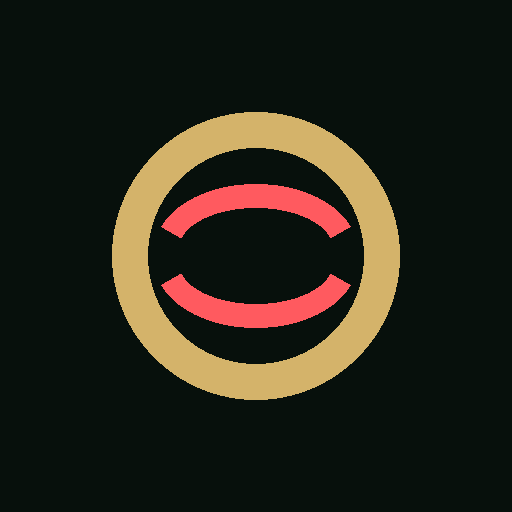
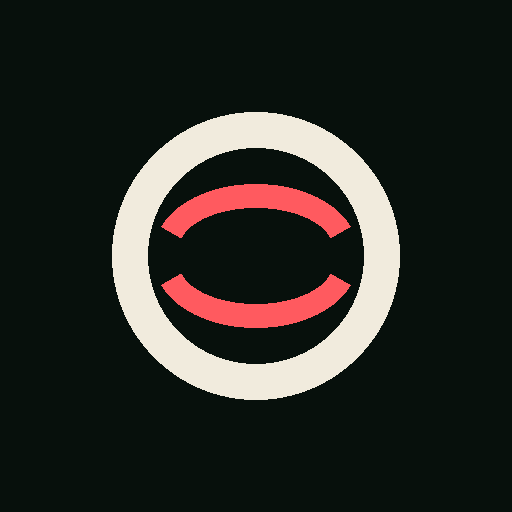
Tone the gold down to an accent
Cream primary buttons again; muted brass only on labels, the input
focus ring and the hold glow. Icons updated to match.

Claude-Session: https://claude.ai/code/session_014Qkx6F1DwtMPoTMY5BRqDN

Changed region(s): [[0.2188, 0.2188, 0.7812, 0.7812]]

diff --git a/src/styles.css b/src/styles.css
@@ -9,13 +9,13 @@
   --line-strong: rgba(216, 201, 160, 0.2);
   --text: #f1ebdd;
   --muted: #9aa89b;
-  --gold: #d4b36a;
-  --gold-deep: #a8873f;
+  --gold: #b8a271;
+  --gold-soft: rgba(184, 162, 113, 0.5);
   --faithful: #e9dcb8;
   --traitor: #ff5a5f;
   --traitor-deep: #7a1a21;
   --traitor-surface: #1a0d10;
-  --focus: #e3c77e;
+  --focus: #cdbb8a;
   --r: 20px;
   --r-pill: 999px;
   --font: -apple-system, BlinkMacSystemFont, 'SF Pro Text', 'Segoe UI', Roboto, 'Helvetica Neue', Arial, sans-serif;
@@ -47,7 +47,7 @@ body {
   -webkit-tap-highlight-color: transparent;
   background:
     radial-gradient(ellipse 120% 60% at 50% -20%, var(--bg-glow), transparent 70%),
-    radial-gradient(ellipse 80% 40% at 50% 120%, rgba(212, 179, 106, 0.06), transparent 70%),
+    radial-gradient(ellipse 80% 40% at 50% 120%, rgba(184, 162, 113, 0.04), transparent 70%),
     var(--bg);
   background-attachment: fixed;
 }
@@ -178,13 +178,8 @@ h2 {
 }
 
 .btn-primary {
-  background: linear-gradient(180deg, #e0c27a, var(--gold));
-  color: #16200f;
-  box-shadow: 0 8px 24px rgba(212, 179, 106, 0.18);
-}
-
-.btn-primary:active:not(:disabled) {
-  box-shadow: 0 4px 12px rgba(212, 179, 106, 0.12);
+  background: var(--text);
+  color: #0c1710;
 }
 
 .btn-ghost {
@@ -224,7 +219,7 @@ h2 {
   padding: 0;
   font-size: 1.4rem;
   background: transparent;
-  color: var(--gold);
+  color: var(--text);
 }
 
 .btn-text {
@@ -271,7 +266,7 @@ input {
 }
 
 input:focus {
-  border-color: var(--gold);
+  border-color: var(--gold-soft);
 }
 
 input::placeholder {
@@ -335,7 +330,7 @@ input::placeholder {
   place-items: center;
   background: var(--surface-2);
   border: 1px solid var(--line);
-  color: var(--gold);
+  color: var(--muted);
   font-size: 0.85rem;
   font-weight: 700;
   flex: none;
@@ -469,8 +464,8 @@ input::placeholder {
   border-radius: 50%;
   border: 1px solid var(--line-strong);
   box-shadow:
-    0 0 0 12px rgba(212, 179, 106, 0.04),
-    0 0 0 24px rgba(212, 179, 106, 0.02);
+    0 0 0 12px rgba(241, 235, 221, 0.03),
+    0 0 0 24px rgba(241, 235, 221, 0.015);
   animation: pulse 2.8s ease-in-out infinite;
 }
 
@@ -484,10 +479,10 @@ input::placeholder {
 
 .hold-btn[aria-pressed='true'] .hold-ring {
   animation: none;
-  border-color: var(--gold);
+  border-color: var(--text);
   box-shadow:
-    0 0 0 14px rgba(212, 179, 106, 0.1),
-    0 0 40px rgba(212, 179, 106, 0.2);
+    0 0 0 14px rgba(241, 235, 221, 0.07),
+    0 0 40px rgba(184, 162, 113, 0.18);
 }
 
 .hold-label {
@@ -535,8 +530,8 @@ input::placeholder {
 
 .card-faithful {
   background: linear-gradient(170deg, #142319, var(--surface));
-  border: 1px solid rgba(212, 179, 106, 0.35);
-  box-shadow: 0 24px 60px rgba(212, 179, 106, 0.1);
+  border: 1px solid rgba(184, 162, 113, 0.3);
+  box-shadow: 0 24px 60px rgba(184, 162, 113, 0.08);
 }
 
 .card-traitor {
@@ -814,7 +809,7 @@ input::placeholder {
 @keyframes pulse {
   50% {
     transform: scale(1.03);
-    border-color: rgba(212, 179, 106, 0.5);
+    border-color: rgba(184, 162, 113, 0.45);
   }
 }
 
